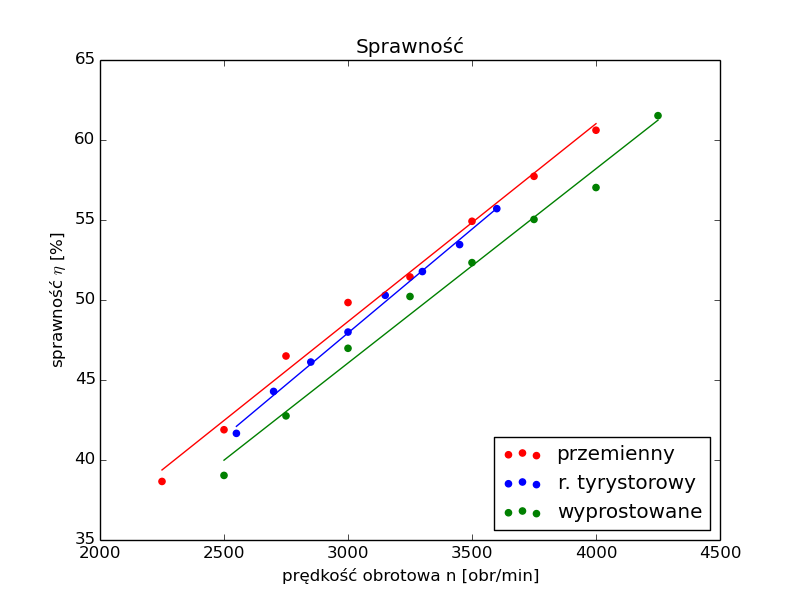
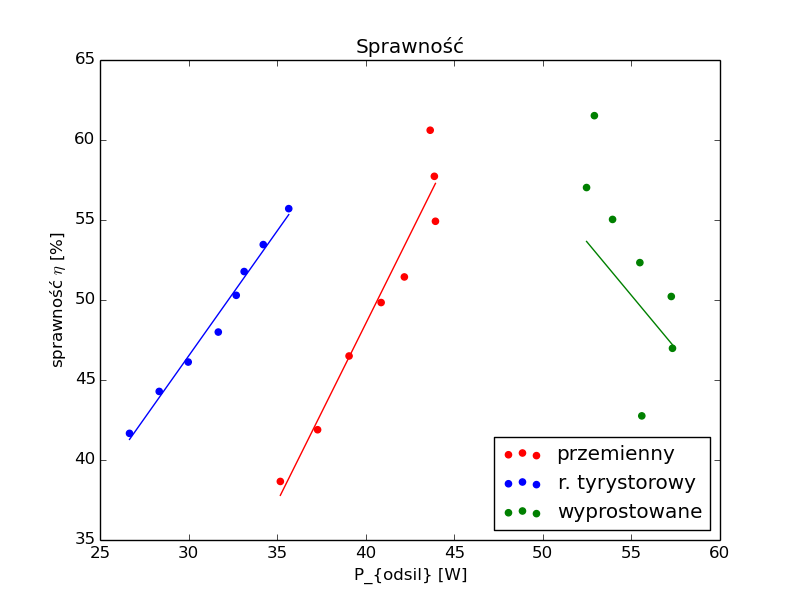
Wykresy - nowe dane

diff --git a/ea3/wyk2.py b/ea3/wyk2.py
@@ -23,12 +23,12 @@ for filename in nazwy:
 	Podsil = P0 + Pcu + Pod
 	T = Podsil / (2*np.pi/60*data['n'])
 	ni = Podsil / data['P']*100
-	plt.scatter(data['n'],ni,color=colors[i],label=labels[i])
+	plt.scatter(Podsil,ni,color=colors[i],label=labels[i])
 	
 	#print(data['n'])
 	# interpolacja
-	q = np.linspace(min(data['n']),max(data['n']),100)
-	z = np.polyfit(data['n'],ni,1)
+	q = np.linspace(min(Podsil),max(Podsil),100)
+	z = np.polyfit(Podsil,ni,1)
 	p = np.poly1d(z)
 	plt.plot(q,p(q),color = colors[i])
 	plt.figure(2)
@@ -40,7 +40,7 @@ for filename in nazwy:
 	i=i+1
 plt.figure(1)
 plt.title('Sprawność')
-plt.xlabel('prędkość obrotowa n [obr/min]')
+plt.xlabel('P_{odsil} [W]')
 plt.ylabel('sprawność $\eta$ [%]')
 plt.legend(loc = 'lower right')
 plt.savefig('Sprawnosc.eps')
